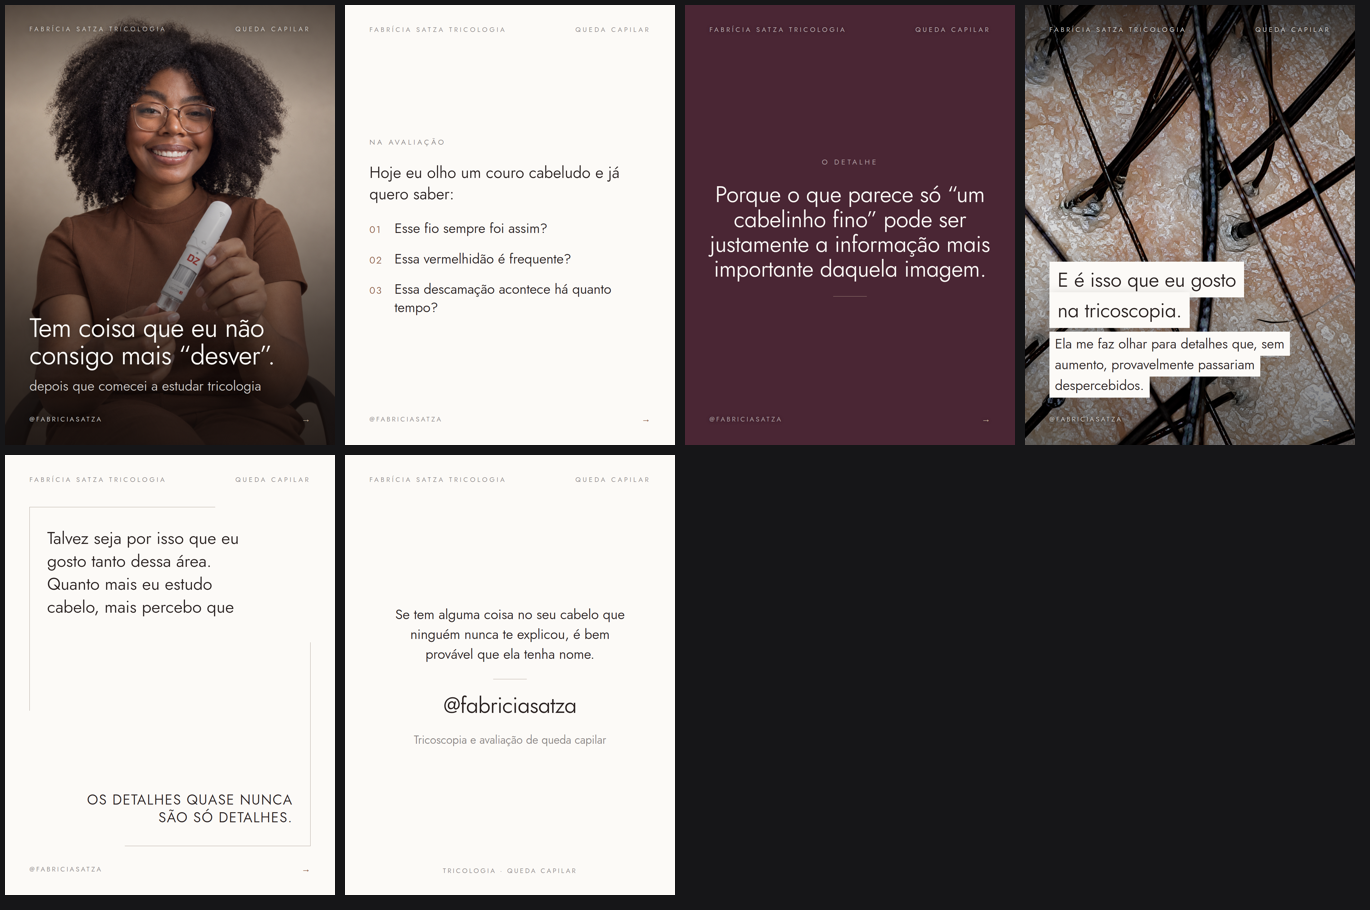
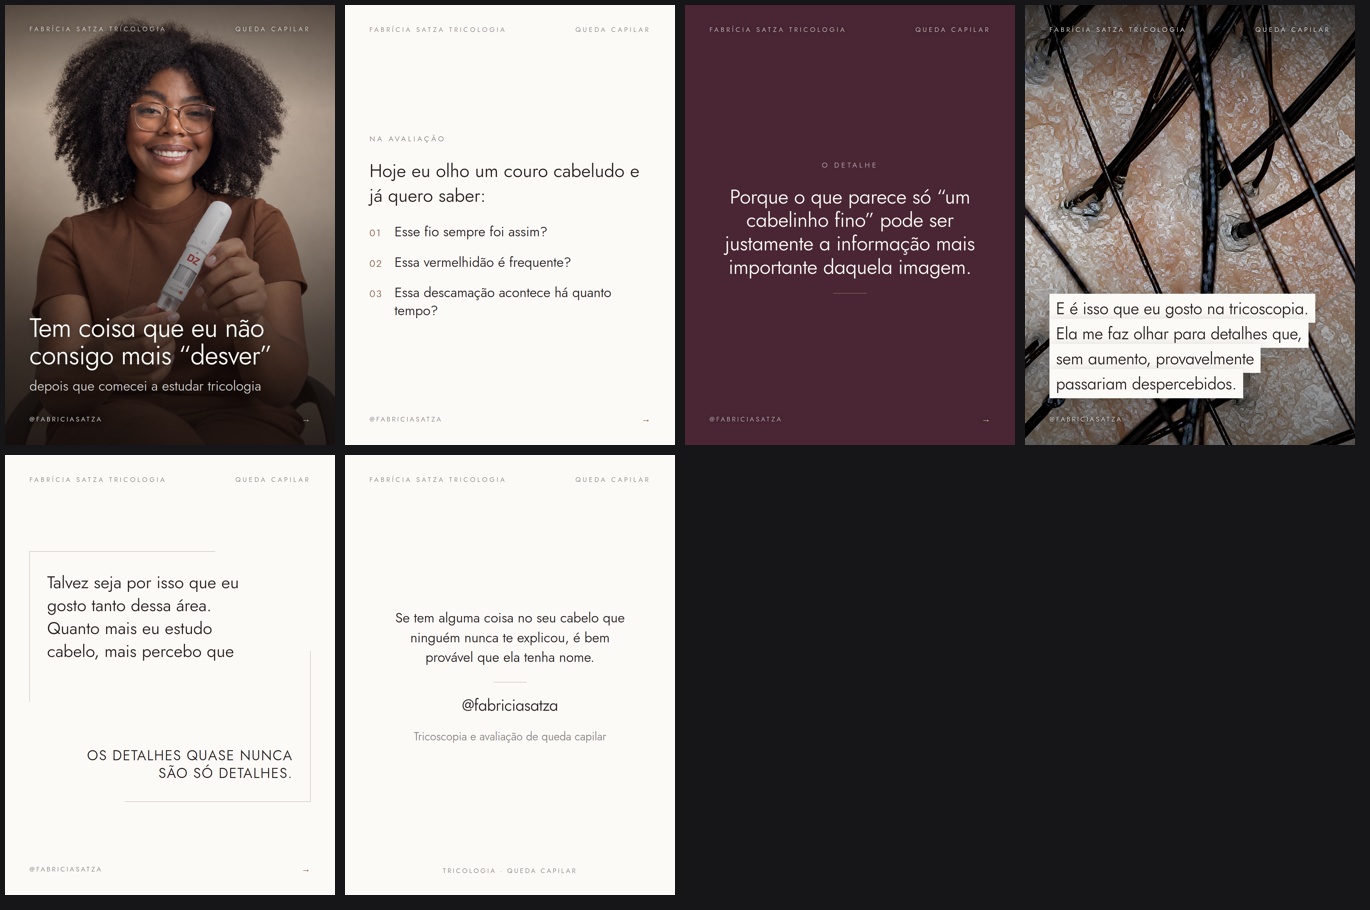
Seis ajustes no carrossel desver
1. Sai o ponto final do titulo da capa. Titulo nao leva ponto, e ali ele
   ainda fechava uma frase que continuava na linha de baixo.
2. Abertura do slide 02 de 52 para 60px. Contra os 45px dos itens, 52 nao
   lia como hierarquia, lia como irregularidade.
3. Virada de 74 para 66px, entrelinha 1.16. Era o slide mais apertado
   justamente sendo o que devia respirar mais.
4. As duas caixas do slide 04 viraram uma. Duas manchas brancas de tamanhos
   diferentes fragmentavam a imagem.
5. Quadro com altura fixa em vez de flex:1. O vao interno media 585px,
   40,6% da peca; agora mede 310px, 21,5%.
6. Arroba do ultimo slide de 72 para 52px. Era a maior coisa do slide e
   competia com a frase que se le primeiro.

Folhas de antes e depois em antes-depois-ajustes/.

Claude-Session: https://claude.ai/code/session_01DL9VyhWUWZtPxmDSzgTccC

diff --git a/carrossel-desver.html b/carrossel-desver.html
@@ -353,7 +353,7 @@ em,i,.destaque{font-style:normal;color:var(--terracota-esc)}
   <div class="veu" style="background:linear-gradient(to bottom,rgba(20,14,12,.54) 0%,rgba(20,14,12,.04) 24%,rgba(20,14,12,.16) 46%,rgba(20,14,12,.62) 74%,rgba(20,14,12,.86) 100%)"></div>
   <div class="cab" style="font-size:21px;letter-spacing:.34em;color:rgba(252,250,247,.80);text-shadow:0 1px 14px rgba(0,0,0,.55)"><span>Fabrícia Satza Tricologia</span><span>Queda capilar</span></div>
   <div class="corpo" style="gap:24px">
-    <div class="display" style="font-size:86px;color:var(--claro);text-shadow:0 2px 30px rgba(0,0,0,.55)">Tem coisa que eu não consigo mais &ldquo;desver&rdquo;.</div>
+    <div class="display" style="font-size:86px;color:var(--claro);text-shadow:0 2px 30px rgba(0,0,0,.55)">Tem coisa que eu não consigo mais &ldquo;desver&rdquo;</div>
     <div class="texto" style="color:rgba(252,250,247,.82);text-shadow:0 2px 22px rgba(0,0,0,.6)">depois que comecei a estudar tricologia</div>
   </div>
   <div class="rod"><span>@fabriciasatza</span><span class="segue">&#8594;</span></div>
@@ -364,7 +364,7 @@ em,i,.destaque{font-style:normal;color:var(--terracota-esc)}
   <div class="cab"><span>Fabrícia Satza Tricologia</span><span>Queda capilar</span></div>
   <div class="corpo">
     <div class="rotulo">Na avaliação</div>
-    <div class="subtitulo">Hoje eu olho um couro cabeludo e já quero saber:</div>
+    <div class="subtitulo" style="font-size:60px">Hoje eu olho um couro cabeludo e já quero saber:</div>
     <div class="lista">
       <div class="item"><div class="item-n">01</div><div class="item-t">Esse fio sempre foi assim?</div></div>
       <div class="item"><div class="item-n">02</div><div class="item-t">Essa vermelhidão é frequente?</div></div>
@@ -379,7 +379,7 @@ em,i,.destaque{font-style:normal;color:var(--terracota-esc)}
   <div class="cab"><span>Fabrícia Satza Tricologia</span><span>Queda capilar</span></div>
   <div class="corpo centro">
     <div class="rotulo">O detalhe</div>
-    <div class="titulo" style="font-size:74px">Porque o que parece só &ldquo;um cabelinho fino&rdquo; pode ser justamente a informação mais importante daquela imagem.</div>
+    <div class="titulo" style="font-size:66px;line-height:1.16">Porque o que parece só &ldquo;um cabelinho fino&rdquo; pode ser justamente a informação mais importante daquela imagem.</div>
     <div class="filete centro"></div>
   </div>
   <div class="rod"><span>@fabriciasatza</span><span class="segue">&#8594;</span></div>
@@ -392,8 +392,7 @@ em,i,.destaque{font-style:normal;color:var(--terracota-esc)}
   <div class="veu" style="background:linear-gradient(to bottom,rgba(0,0,0,.70) 0%,rgba(0,0,0,.28) 20%,rgba(0,0,0,.12) 48%,rgba(0,0,0,.52) 100%)"></div>
   <div class="cab"><span>Fabrícia Satza Tricologia</span><span>Queda capilar</span></div>
   <div class="corpo" style="gap:26px">
-    <div class="titulo" style="font-size:66px"><span class="caixa caixa-sombra">E é isso que eu gosto na tricoscopia.</span></div>
-    <div class="texto"><span class="caixa">Ela me faz olhar para detalhes que, sem aumento, provavelmente passariam despercebidos.</span></div>
+    <div class="titulo" style="font-size:54px"><span class="caixa caixa-sombra">E é isso que eu gosto na tricoscopia. Ela me faz olhar para detalhes que, sem aumento, provavelmente passariam despercebidos.</span></div>
   </div>
   <div class="rod"><span>@fabriciasatza</span><span class="segue">&#8594;</span></div>
 </section>
@@ -402,7 +401,7 @@ em,i,.destaque{font-style:normal;color:var(--terracota-esc)}
 <section class="slide">
   <div class="cab"><span>Fabrícia Satza Tricologia</span><span>Queda capilar</span></div>
   <div class="corpo">
-    <div class="quadro">
+    <div class="quadro" style="flex:none;height:820px">
       <div class="quadro-topo">Talvez seja por isso que eu gosto tanto dessa área. Quanto mais eu estudo cabelo, mais percebo que</div>
       <div class="quadro-base" style="max-width:88%">os detalhes quase nunca são só detalhes.</div>
     </div>
@@ -416,7 +415,7 @@ em,i,.destaque{font-style:normal;color:var(--terracota-esc)}
   <div class="corpo centro">
     <div class="texto" style="max-width:84%">Se tem alguma coisa no seu cabelo que ninguém nunca te explicou, é bem provável que ela tenha nome.</div>
     <div class="filete centro"></div>
-    <div class="display" style="font-size:72px">@fabriciasatza</div>
+    <div class="display" style="font-size:52px">@fabriciasatza</div>
     <div class="texto-sm">Tricoscopia e avaliação de queda capilar</div>
   </div>
   <div class="rod" style="justify-content:center"><span>Tricologia &middot; Queda capilar</span></div>
